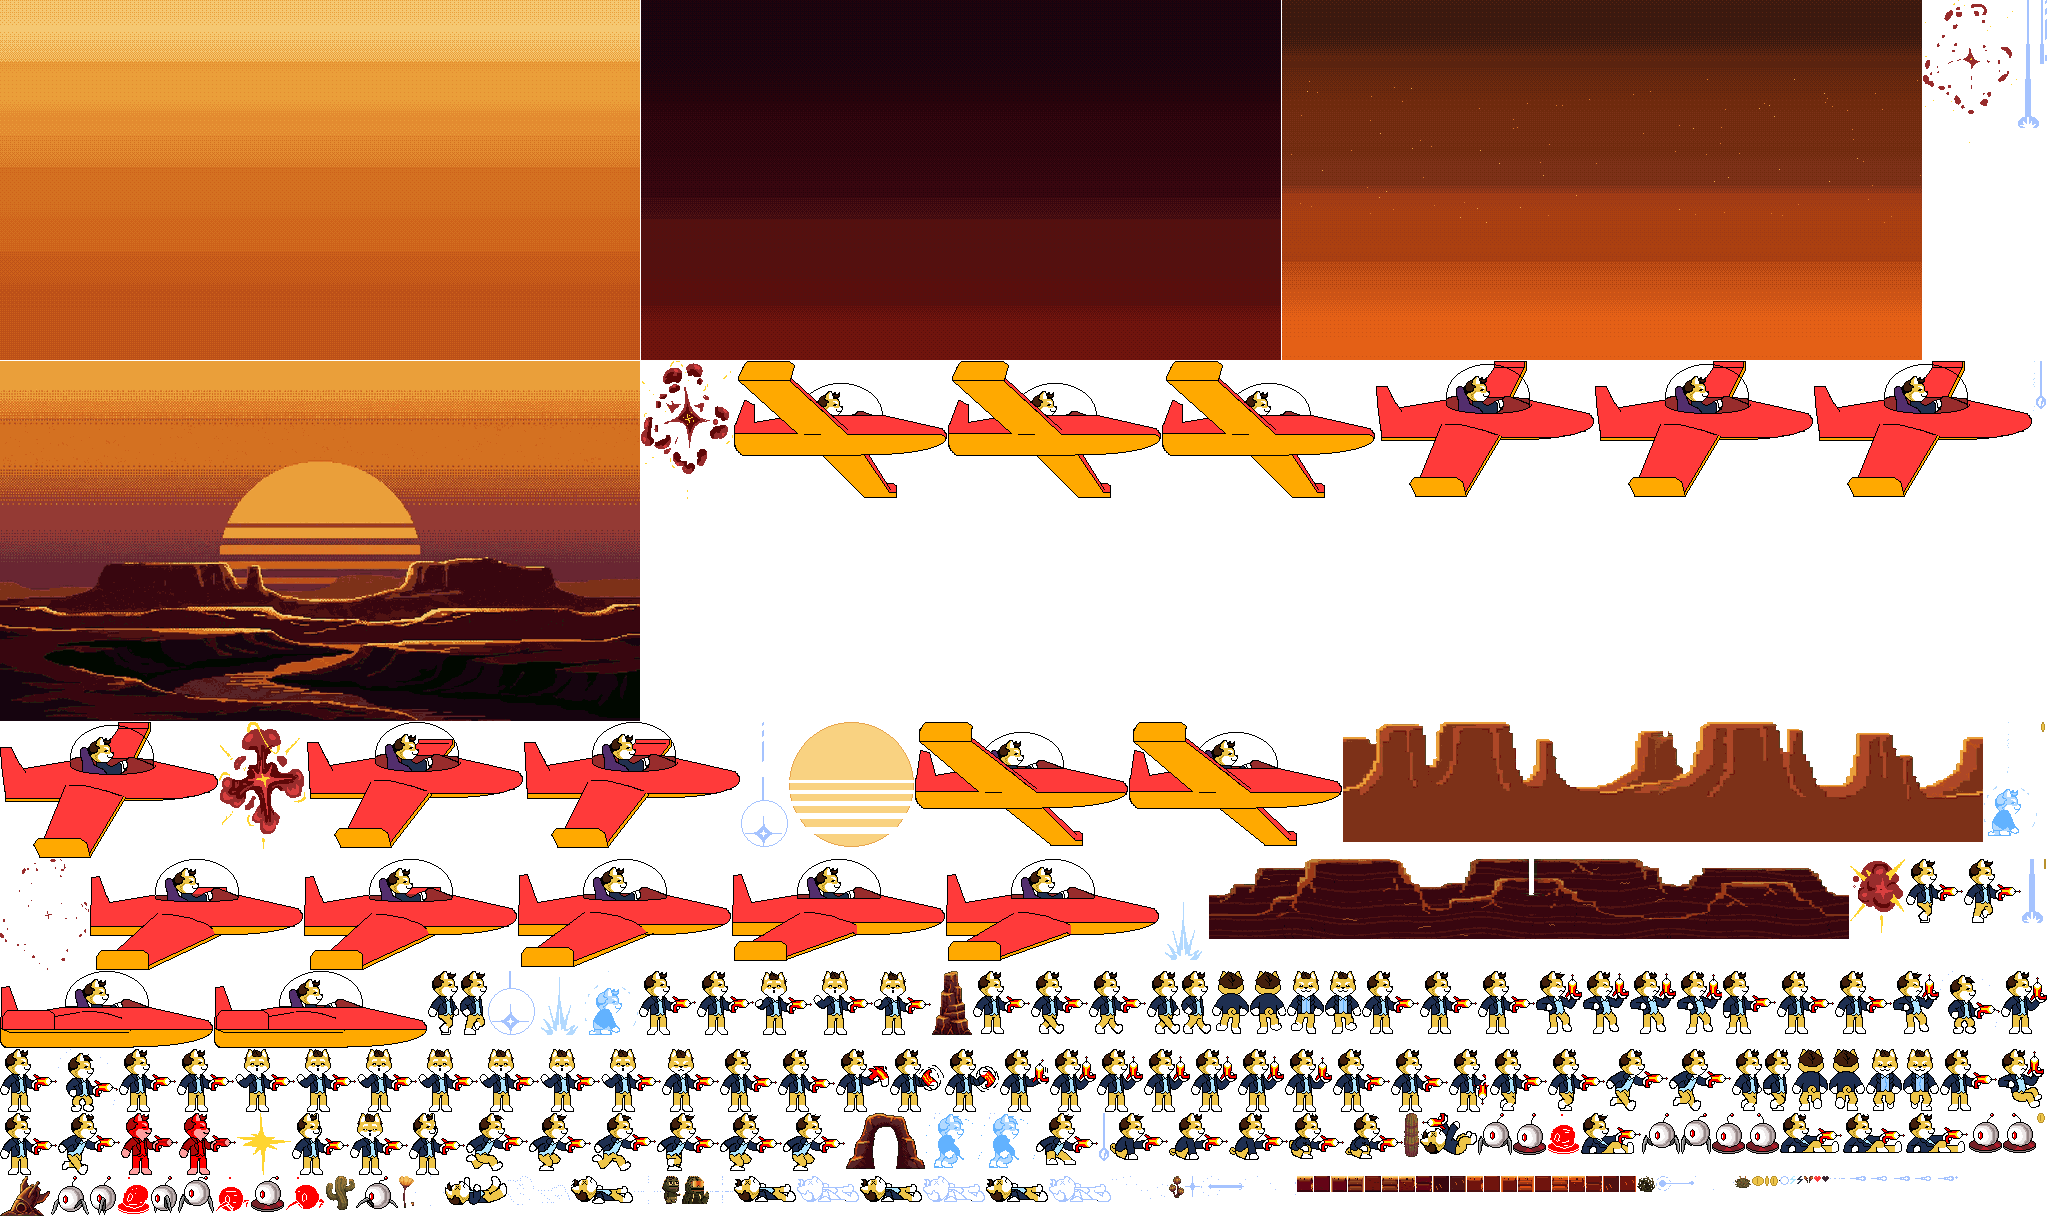
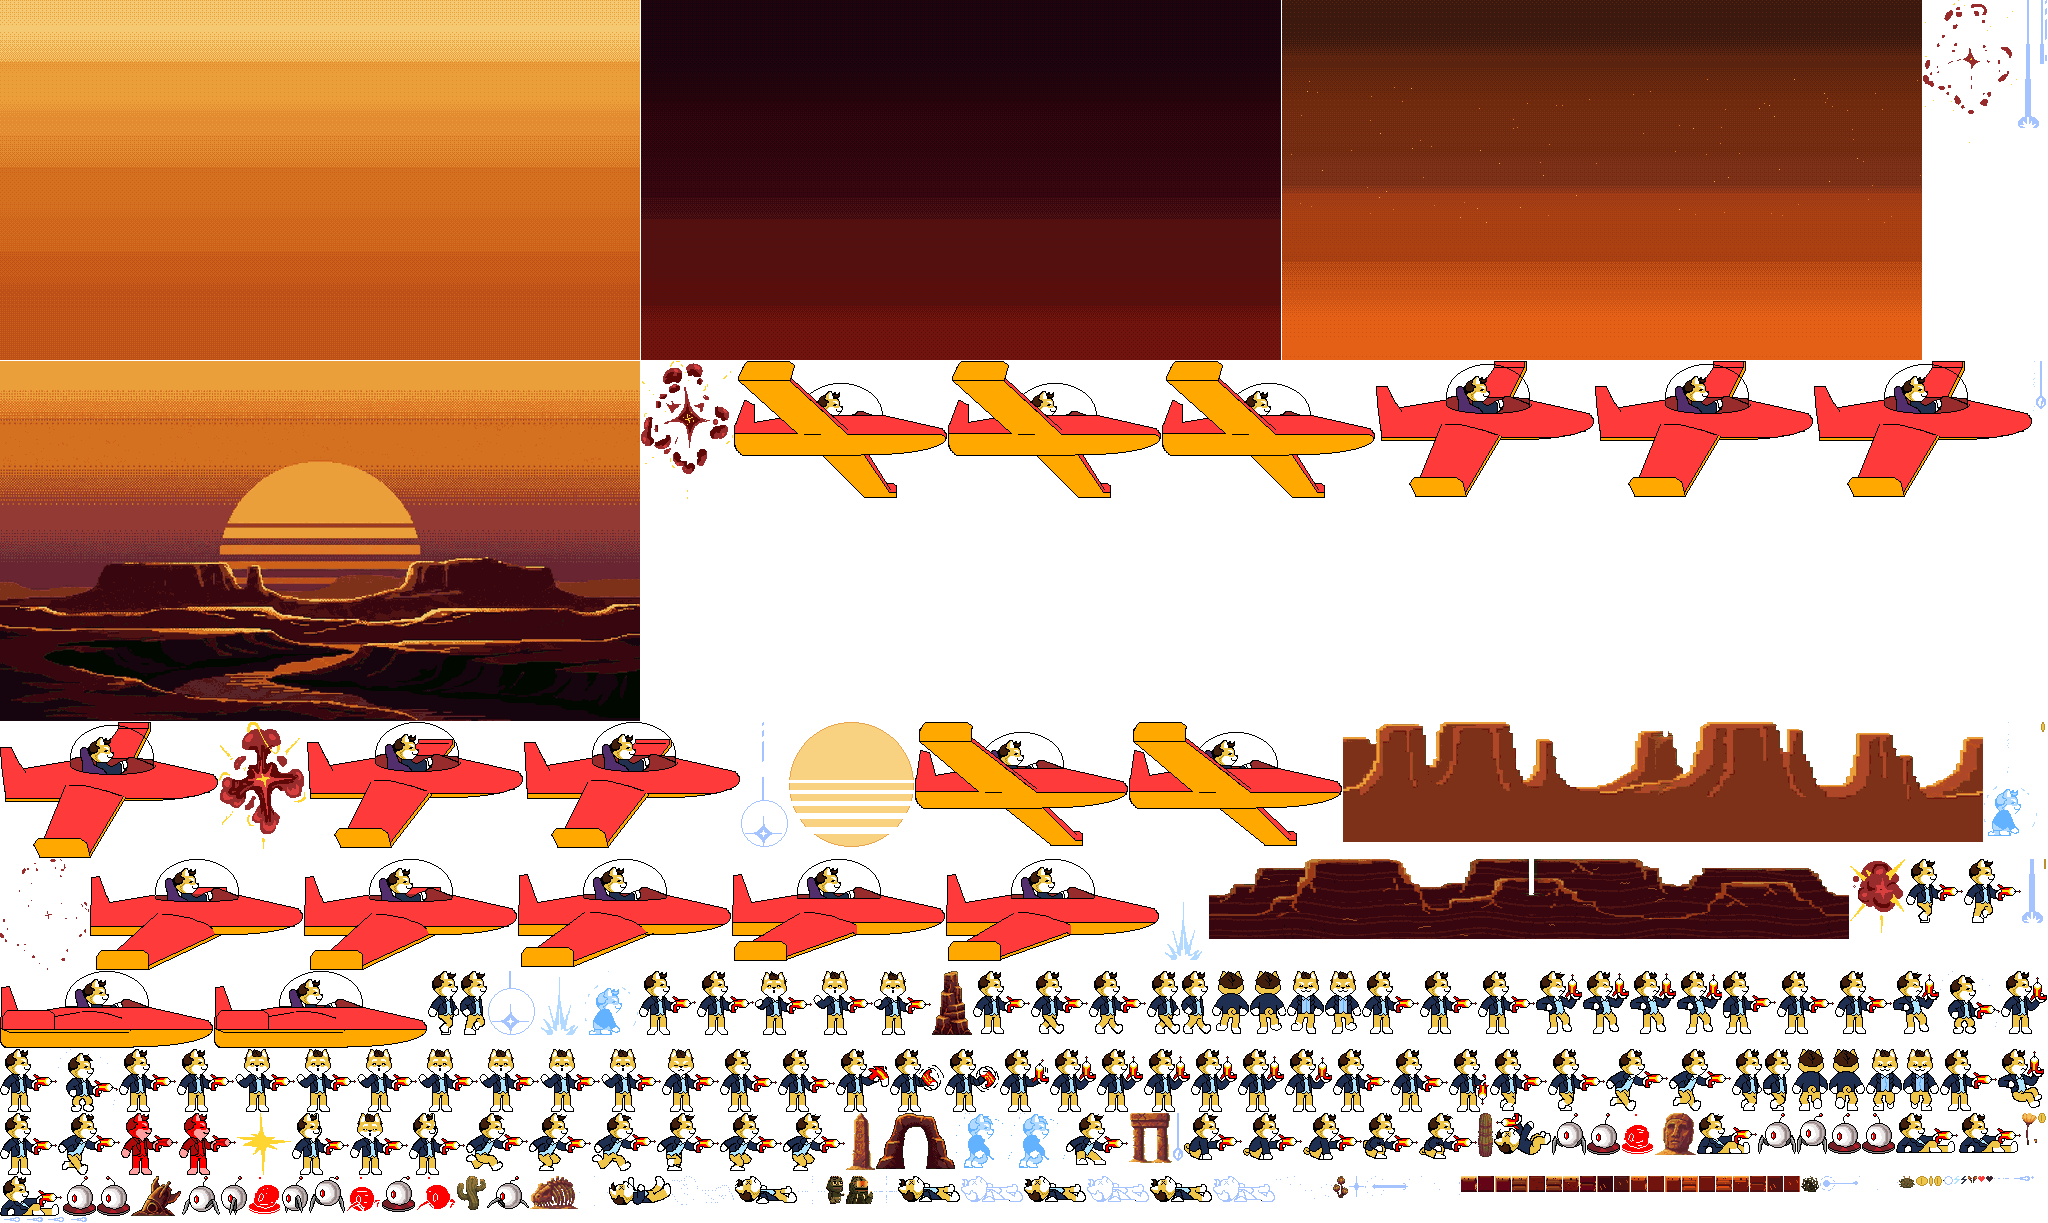
ancient landmarks: four ruined monuments join the background family
Half-buried colossal statue head, weathered obelisk, megalithic gate and a
colossal fossil ribcage — generated through the standard pipeline (prompt +
raw committed under assets-wow/raw/prod_landmarks/), chroma-keyed, quantized
into the locked palette (which learns no new entries from this raw), and
atlas-ingested as prop_head/obelisk/mgate/ribs. Placed by a new LANDMARK
pass in play.js: one ruin per 2048px shelf super-strip at a hashed offset
(a plain per-strip gate clumped badly), deterministic per coordinate, live
in gauntlet AND wow, drawn behind the one-of-each shelf props and skipped
near them. Frame/anim counts 231/51; boot e2e updated.

diff --git a/web/game/scenes/play.js b/web/game/scenes/play.js
@@ -503,6 +503,16 @@ export function makePlay({ atlas, input, save, go, jukebox, sfx, toggleMute, xOn
   const ROCK_PROPS = PROPS.filter(p => p.fx === 0.60 && !p.front);
   const SHELF_PROPS = PROPS.filter(p => p.front);
 
+  // LANDMARK-RARE (fix round, user request): the ancient-monument family —
+  // half-buried statue head, weathered obelisk, megalithic gate, fossil
+  // ribcage. Unlike the one-of-each PROPS above these repeat across the
+  // whole run (gauntlet AND wow), but SPARSELY: a coordinate hash gates
+  // roughly one 512px shelf strip in four, so one drifts past every few
+  // screens. Pure function of the strip index — the same ruins every
+  // session, per the determinism rule. All four are soft, clearly inanimate
+  // silhouettes on the far shelf; they never overlap the playfield.
+  const LANDMARKS = ['prop_head', 'prop_obelisk', 'prop_mgate', 'prop_ribs'];
+
   function drawProp(ctx, p, drift) {
     const sx = Math.round(p.x - cam.x * p.fx);
     if (sx > VW || sx + atlas.anims[p.name].cw < 0) return;   // off-screen: skip
@@ -814,6 +824,23 @@ export function makePlay({ atlas, input, save, go, jukebox, sfx, toggleMute, xOn
                    Math.min(VH, level.h - 8 * TILE - cam.y + 1) - rocksBottom + 20);
       for (const p of ROCK_PROPS) drawProp(ctx, p, drift);
       band('par_rocks', 0.60, 0.20, 10);
+      // Ancient landmarks: feet on the haze shelf, drawn BEFORE the
+      // single-placement shelf props so those keep the front of the stage —
+      // and skipped anywhere near one (the layer-space guard), so a repeating
+      // ruin can never crowd a landmark that exists exactly once.
+      // One ruin per 2048px super-strip of the shelf layer (~every 3-4
+      // screens of world travel), at a hashed offset inside it — a plain
+      // per-strip hash gate clumped badly (an 8-screen empty gap, then three
+      // of the same monument in a row at the pad; measured before shipping).
+      for (let k = Math.max(0, Math.floor(cam.x * 0.60 / 2048) - 1), n = 0; n < 3; k++, n++) {
+        const h = hash2(k, 7877);
+        const lx = k * 2048 + h % 1600;
+        if (SHELF_PROPS.some(p => Math.abs(lx - p.x) < 170)) continue;
+        const sx = Math.round(lx - cam.x * 0.60);
+        if (sx < -60 || sx > VW + 60) continue;
+        const name = LANDMARKS[(h >>> 11) % LANDMARKS.length];
+        atlas.drawFeet(ctx, name, atlas.anims[name].frames[0], sx, rocksBottom - 4);
+      }
       for (const p of SHELF_PROPS) drawProp(ctx, p, drift);
       // Mid-band flora: sparse silhouettes rooted on the haze shelf between
       // the rock band and the playfield, riding the rocks' parallax. Pure

diff --git a/tests/e2e/boot.spec.js b/tests/e2e/boot.spec.js
@@ -50,7 +50,7 @@ test('boots clean: canvas, atlas, no console errors', async ({ page }) => {
   await expect(page.locator('canvas#screen')).toBeVisible();
   const st = await page.evaluate(() => window.__blast.state());
   expect(st.scene).toBe('play');
-  expect(st.anims).toBe(47);
+  expect(st.anims).toBe(51);
   expect(atlasReqs.length).toBe(2);                     // atlas.json + atlas.png
   for (const v of atlasReqs) expect(v).toMatch(/^.+$/); // both stamped, non-empty
   expect(errors).toEqual([]);

diff --git a/tools/genart_v2_prod.py b/tools/genart_v2_prod.py
@@ -666,6 +666,14 @@ def main():
     A['tiles_wow'] = ember_shift(A['tiles'], palimg)
     props = build_objects('prod_props', [64, 56, 40], palimg)
     A['props'] = {'spire': props[0], 'arch': props[1], 'wreck': props[2]}
+    # Ancient landmarks (fix round, user request): four ruined monuments
+    # joining the spire/arch/wreck family — half-buried colossal statue head,
+    # weathered obelisk, megalithic gate, colossal fossil ribcage. Same
+    # pipeline (chroma-key → objects → quantize into the LOCKED master, which
+    # deliberately does not learn any new entries from this raw).
+    lands = build_objects('prod_landmarks', [44, 58, 52, 34], palimg)
+    A['landmarks'] = {'head': lands[0], 'obelisk': lands[1],
+                      'mgate': lands[2], 'ribs': lands[3]}
     A['flora'] = build_objects('prod_flora', [34, 44, 22, 16, 12, 32, 7, 7], palimg)
     A['title'] = quantize_to(
         Image.open(RAW / 'prod_title' / 'raw_0.jpg').convert('RGB')
@@ -678,6 +686,8 @@ def main():
               'tiles_wow', 'title', 'prop1', 'prop2'):
         A[k].save(PROD / f'{k}.png')
     for k, v in A['props'].items():
+        v.save(PROD / f'prop_{k}.png')
+    for k, v in A['landmarks'].items():
         v.save(PROD / f'prop_{k}.png')
     for i, f in enumerate(A['flora']):
         f.save(PROD / f'flora_{i}.png')

diff --git a/tools/build_assets.py b/tools/build_assets.py
@@ -69,6 +69,12 @@ PROD = [
     ('prop_spire', 'prop_spire.png', 40,  64, 1, False),
     ('prop_arch',  'prop_arch.png',  79,  56, 1, False),
     ('prop_wreck', 'prop_wreck.png', 50,  40, 1, False),
+    # Ancient landmarks (fix round): sparse deterministic background pieces,
+    # placed by the scene's LANDMARKS pass (see play.js).
+    ('prop_head',    'prop_head.png',    41, 44, 1, False),
+    ('prop_obelisk', 'prop_obelisk.png', 29, 58, 1, False),
+    ('prop_mgate',   'prop_mgate.png',   44, 52, 1, False),
+    ('prop_ribs',    'prop_ribs.png',    48, 34, 1, False),
     ('flora_0',    'flora_0.png',    29,  34, 1, False),
     ('flora_1',    'flora_1.png',    15,  44, 1, False),
     ('flora_2',    'flora_2.png',    15,  22, 1, False),
@@ -191,8 +197,8 @@ def main():
     kb = (OUT / 'atlas.png').stat().st_size // 1024
     print(f'frames={len(frames)} anims={len(anims)} atlas={atlas.width}x{atlas.height} '
           f'({kb} KB) palette={len(pal)} colors')
-    assert len(frames) == 227, len(frames)
-    assert len(anims) == 47, len(anims)
+    assert len(frames) == 231, len(frames)
+    assert len(anims) == 51, len(anims)
     assert atlas.height <= 2048, 'atlas overflow'
 
 if __name__ == '__main__':
